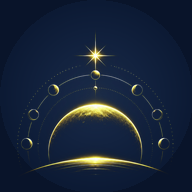
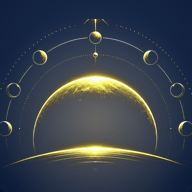
Ikony: vitezna varianta Luna (vychazejici Luna s paprsky, prstenec fazi) — cela sada 512/192/maskable/apple/favicony + SW v96

diff --git a/index.html b/index.html
@@ -16,10 +16,10 @@ document.documentElement.dataset.theme=t;
 var c={day:'#0A4FA8',night:'#040A18'}[t];
 var mt=document.querySelector('meta[name=theme-color]');if(mt)mt.setAttribute('content',c);}catch(e){}})();</script>
 <link rel="manifest" href="manifest.webmanifest">
-<link rel="icon" href="favicon-32.png?v=2" sizes="32x32" type="image/png">
-<link rel="icon" href="favicon-16.png?v=2" sizes="16x16" type="image/png">
+<link rel="icon" href="favicon-32.png?v=3" sizes="32x32" type="image/png">
+<link rel="icon" href="favicon-16.png?v=3" sizes="16x16" type="image/png">
 <link rel="icon" href="icon-192.png" sizes="192x192" type="image/png">
-<link rel="apple-touch-icon" href="apple-touch-icon.png?v=2">
+<link rel="apple-touch-icon" href="apple-touch-icon.png?v=3">
 <link rel="preconnect" href="https://fonts.googleapis.com">
 <link rel="preconnect" href="https://fonts.gstatic.com" crossorigin>
 <link rel="stylesheet" href="https://fonts.googleapis.com/css2?family=Cormorant+Garamond:ital,wght@0,500;0,600;1,500&family=IBM+Plex+Sans:wght@400;500;600&family=IBM+Plex+Mono:wght@400;500&display=swap">

diff --git a/sw.js b/sw.js
@@ -1,5 +1,5 @@
 /* Kairos – service worker. Při každé změně index.html zvedni číslo verze. */
-const CACHE = 'kairos-v95';
+const CACHE = 'kairos-v96';
 const SHELL = ['./', './index.html', './astronomy.browser.min.js', './manifest.webmanifest', './logo.png', './logo2.webp?v=1', './moon-tex.png?v=1', './icon-192.png', './icon-512.png', './icon-maskable-512.png', './sky-day.webp?v=7', './sky-night.webp?v=4', './sky-night-hd.webp?v=1', './sky-day-hd.webp?v=1'];
 
 self.addEventListener('install', (e) => {
